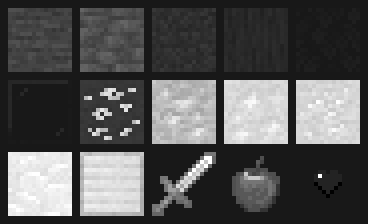
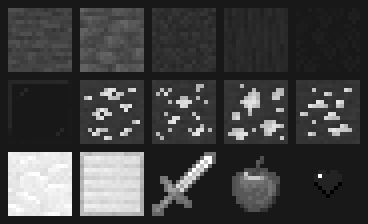
Fix ore detection (metal keywords no longer override ore rule); add samples image
Claude-Session: https://claude.ai/code/session_01Nn7UHQq2N82a2nHNa53RqJ

Changed region(s): [[0.3886, 0.3438, 0.9864, 0.6562]]

diff --git a/tools/generate_textures.py b/tools/generate_textures.py
@@ -94,6 +94,11 @@ RULE_PATTERNS = [(_compile(kws), lo, hi, a) for kws, lo, hi, a in RULES]
 def classify(rel):
     """Return (lo, hi, block_alpha, is_ore) for a path relative to textures/."""
     joined = "_" + "_".join(_TOKEN_RE.findall(rel.lower())) + "_"
+    if rel.startswith("block/") and _ORE_RE.search(joined):
+        # ores first: host rock + bright blobs (metal keywords must not win)
+        if "deepslate" in joined or "netherrack" in joined or "nether_" in joined:
+            return 120, 160, 90, True
+        return 110, 150, 70, True
     for pat, lo, hi, a in RULE_PATTERNS:
         if pat.search(joined):
             return lo, hi, a, False
